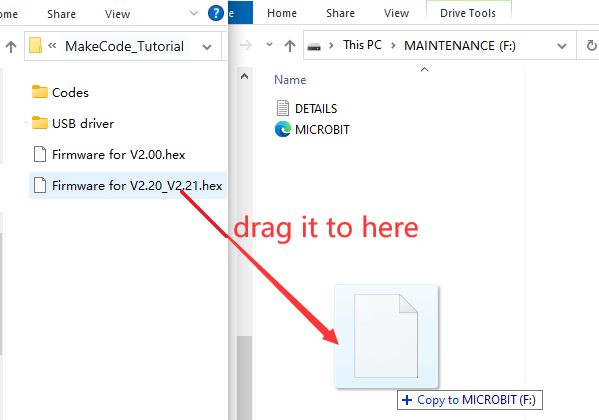
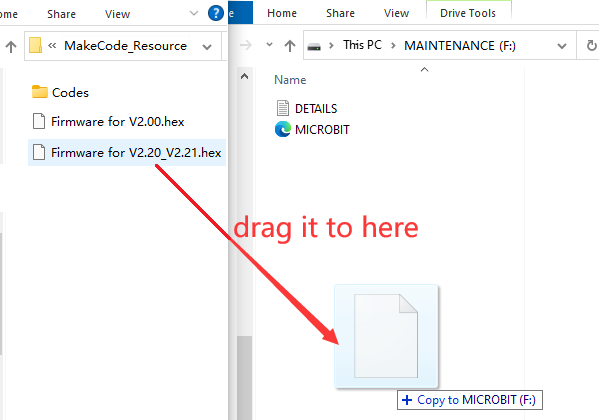
2025年09月28日 周日  9:32:33.22

Changed region(s): [[0.0301, 0.2786, 0.3907, 0.5262], [0.0902, 0.0929, 0.3306, 0.1238]]

diff --git a/docs/MakeCode_教程/MakeCode开发环境.md b/docs/MakeCode_教程/MakeCode开发环境.md
@@ -24,15 +24,15 @@ MakeCode 编译器如下:
 
 第一步：点击右上角的设置按钮。
 
-![Img](./media/img-20250903170641.png)
+![Img](./media/A301.png)
 
 第二步：在下拉菜单中选择“Language”。
 
-![Img](./media/img-20250903170732.png)
+![Img](./media/A302.png)
 
 第三步：在弹出的对话框中，选择你需要的界面语言。
 
-![Img](./media/img-20250903170831.png)
+![Img](./media/A303.png)
 
 ## 3.2.2 MakeCode扩展库
 

diff --git a/docs/MakeCode_教程/Resource_Download.md b/docs/MakeCode_教程/Resource_Download.md
@@ -1,6 +1,6 @@
 ## 代码和固件下载
 
-请先下载本教程需要用到的 MakeCode资料(包含：MakeCode_代码 和 固件），请点击下载才能进行后续的学习，保存至您方便使用的路径下。
+请先下载本教程需要用到的 MakeCode资料(包含：代码 和 固件），请点击下载才能进行后续的学习，保存至您方便使用的路径下。
 
 单击下载：[MakeCode_Resource](./MakeCode_Resource.7z) 
 

diff --git a/docs/MakeCode_教程/3.MakeCode_Tutorial.rst b/docs/MakeCode_教程/3.MakeCode_Tutorial.rst
@@ -1,8 +1,8 @@
 3. MakeCode_Tutorial
-=============
+====================
 
 3.1 Resource Download
-=================
+====================
 
 .. toctree::
     :maxdepth: 2
@@ -18,7 +18,7 @@
     MakeCode开发环境
 
 3.3 项目教程
-================
+====================
 
 .. toctree::
     :maxdepth: 1
@@ -37,7 +37,7 @@
     Projects/课程11
   
 3.4 故障排除
-================
+====================
 
 .. toctree::
     :maxdepth: 1

diff --git a/docs/MicroPython_教程/4.MicroPython_Tutorial.rst b/docs/MicroPython_教程/4.MicroPython_Tutorial.rst
@@ -1,8 +1,8 @@
 4. MicroPython_Tutorial
-=============
+====================
 
 4.1 Resource Download
-=================
+====================
 
 .. toctree::
     :maxdepth: 2
@@ -18,7 +18,7 @@
     MU开发环境
 
 4.3 项目教程
-================
+====================
 
 .. toctree::
     :maxdepth: 1
@@ -37,7 +37,7 @@
     Projects/课程11
   
 4.4 故障排除
-================
+====================
 
 .. toctree::
     :maxdepth: 1

diff --git a/docs/MicroPython_教程/Resource_Download.md b/docs/MicroPython_教程/Resource_Download.md
@@ -1,0 +1,9 @@
+## 代码和固件下载
+
+请先下载本教程需要用到的 MicroPython资料(包含：代码 和 库文件），请点击下载才能进行后续的学习，保存至您方便使用的路径下。
+
+单击下载：[MicroPython_Resource](./MicroPython_Resource.7z) 
+
+
+
+
